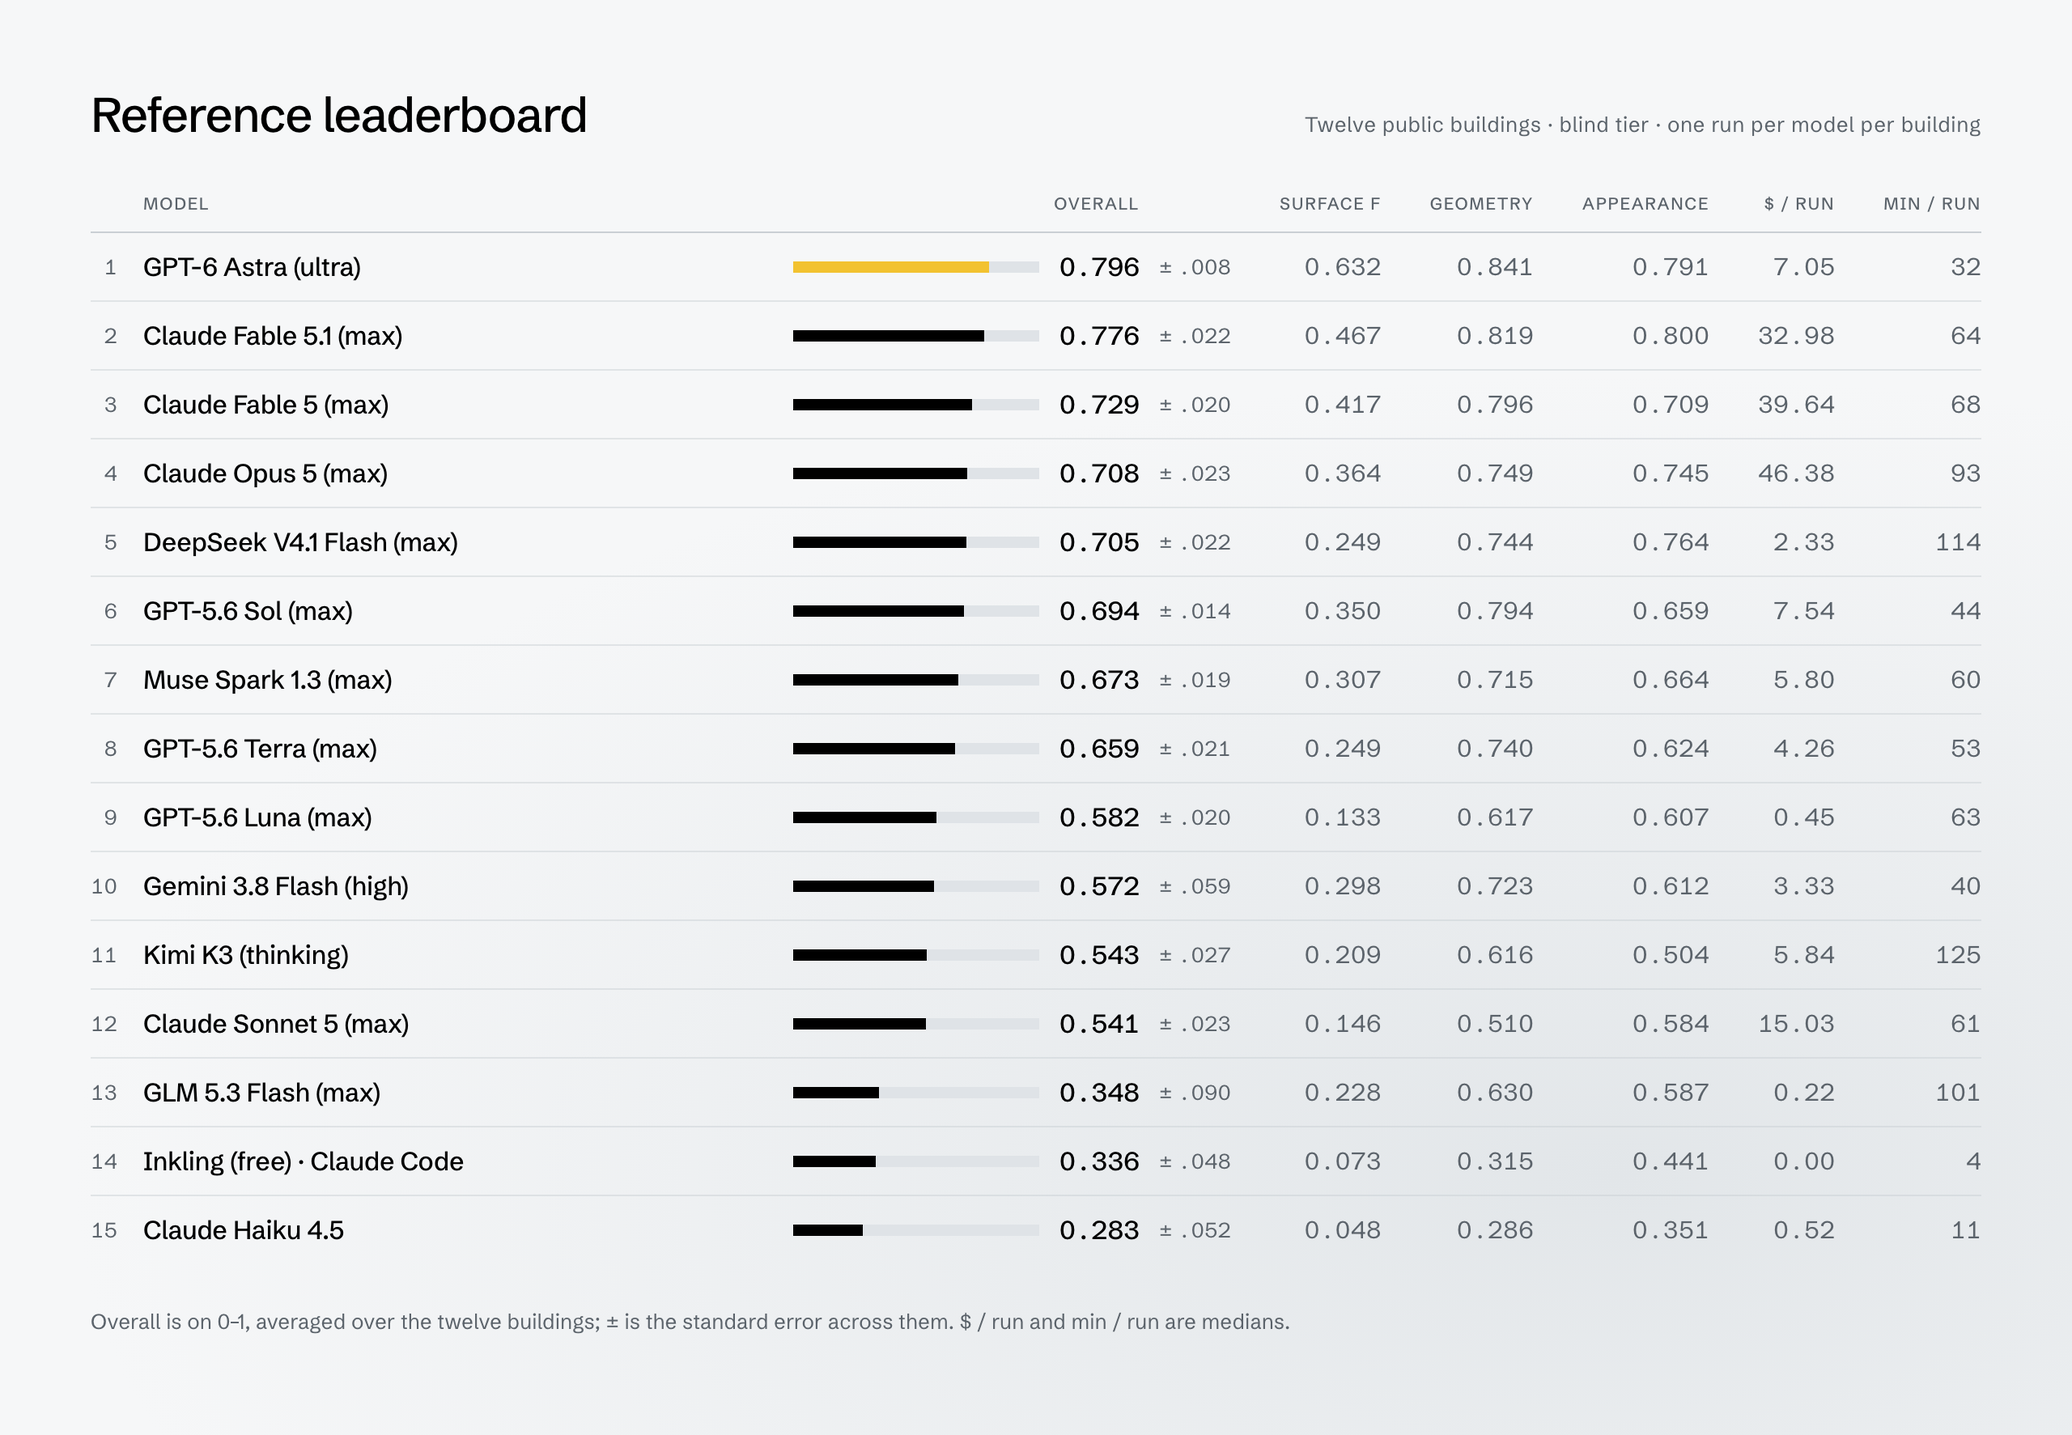
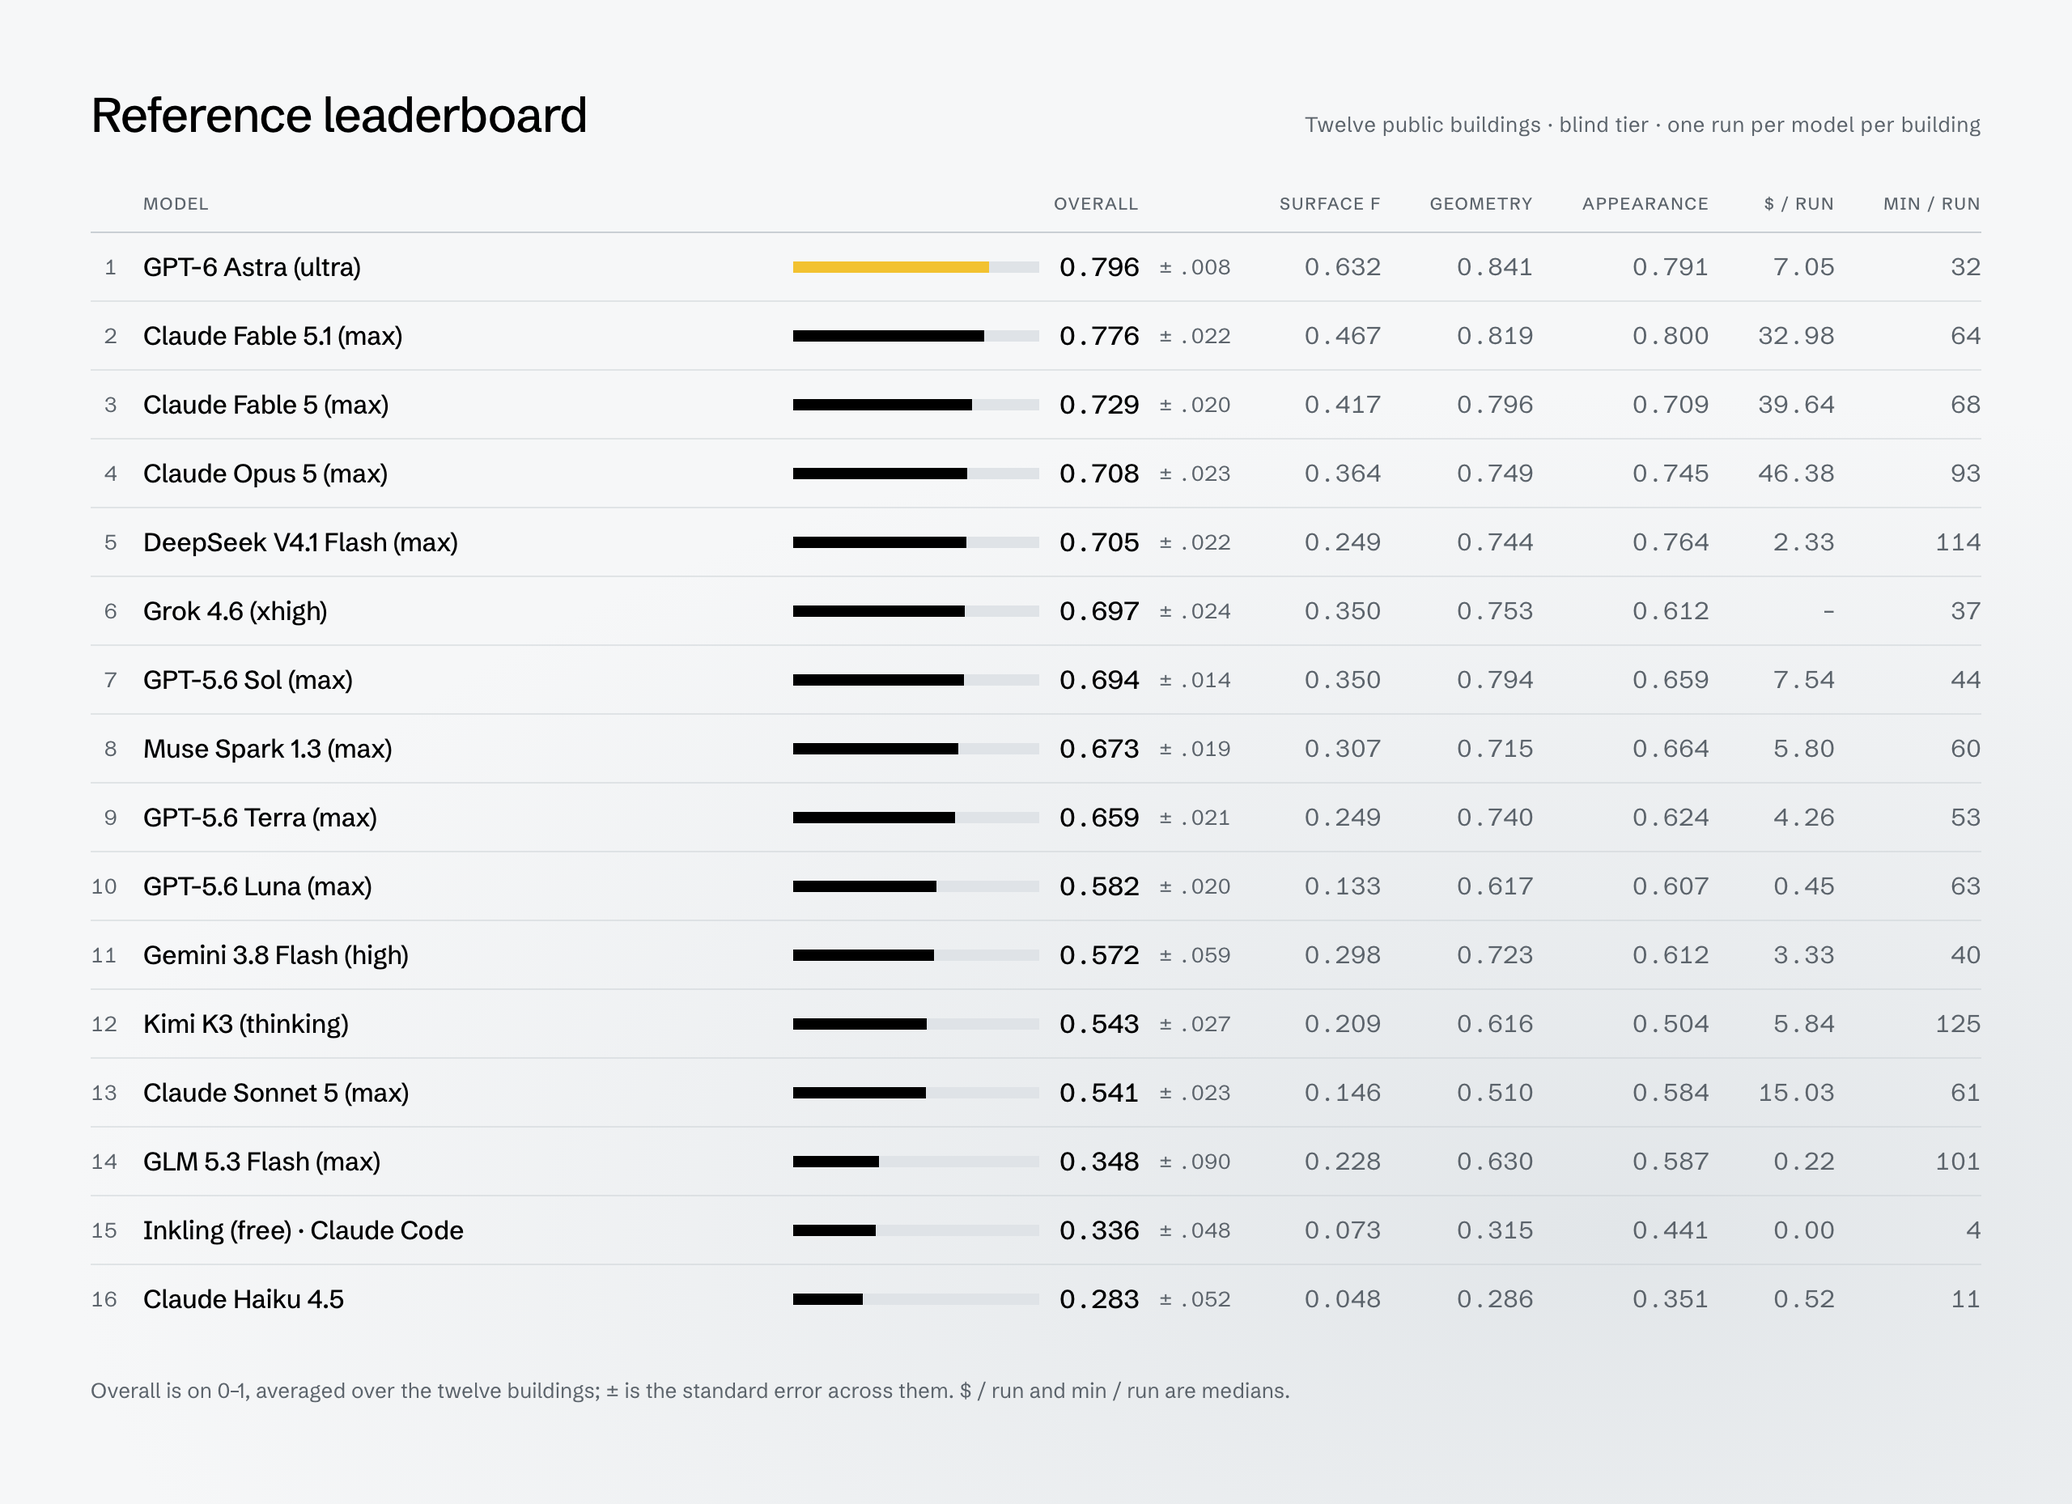
Add Grok 4.6 (xhigh) to the reference board
Twelve runs, one per public case, through Grok Build at
--reasoning-effort xhigh: of the CLI's two effort flags, the one that
reaches the model.

- harness: the grok product and the grok46xhigh configuration. The lane
  gets the login file and nothing else from ~/.grok, and scrub removes
  it, with the Antigravity token, once the lane stops.
- results: 201 reference runs. The CLI reports neither a price nor token
  counts, so these rows carry no cost; seconds is the agent's own turn
  from the CLI's log.
- README and figures: sixteen rows; the price plot names the row it
  cannot place.

diff --git a/harness/agents.py b/harness/agents.py
@@ -96,6 +96,17 @@ PRODUCTS = {
     "muse": ('muse-max-runner --model {model} --reasoning-effort {effort} '
              '--wire-effort max --base-url http://127.0.0.1:8897/v1 '
              '--prompt {prompt}'),
+    # xAI's Grok Build, on a subscription login. Not redistributable: bring
+    # your own `grok` binary and a `grok login`. The CLI has two effort flags
+    # and only one of them reaches the model: --reasoning-effort becomes the
+    # request's `reasoning.effort`, while --effort (low..max) is the CLI's own
+    # setting and leaves the request unchanged -- captured with CLI 0.2.22,
+    # --effort max, xhigh, high, low and no flag at all each sent `"effort":
+    # "high"`, the catalogue default. Both are pinned at their top. Kept off:
+    # --check (appends a self-verification loop to the prompt) and --best-of-n
+    # (runs the task N ways and keeps the best) -- no other row had either.
+    "grok": ('grok -p {prompt} -m {model} --output-format json '
+             '--always-approve --effort max --reasoning-effort {effort}'),
     # Google's Antigravity CLI. Not redistributable: bring your own `agy`
     # binary (--tool agy=/path/to/agy) and your own login.
     "antigravity": ('agy --print {prompt} --output-format json '
@@ -156,6 +167,18 @@ CONFIGS = {c.name: c for c in (
                   "one binary you name, so name the versioned one: given the "
                   "shim alone the agent dies in seconds with \"installed "
                   "binary is missing\".",)),
+    # xAI's own model catalogue (GET /v1/models on the CLI's proxy) lists
+    # grok-4.6's reasoning efforts as low, medium, high (the default) and
+    # xhigh, "Highest effort and reasoning level"; the CLI rejects
+    # `--reasoning-effort max`.
+    Config("grok46xhigh", "Grok 4.6 (xhigh)", "grok", "grok-4.6", "xhigh",
+           notes=("Grok Build on a subscription login, not an API key: "
+                  "`grok login --device-auth` on the host, then the lane gets "
+                  "that login file and nothing else from ~/.grok.",
+                  "xhigh is grok-4.6's highest reasoning effort. --effort max "
+                  "is passed too, but it does not change the request.",
+                  "The CLI reports neither a price nor token counts, so these "
+                  "runs carry no cost.")),
     Config("glm-5.3-flash-max", "GLM 5.3 Flash (max)", "opencode",
            "openrouter/z-ai/glm-5.3-flash", "max"),
     Config("inkling-free", "Inkling (free) · opencode", "opencode",
@@ -257,6 +280,16 @@ def access(config: Config, *, codex_auth: str | None = None,
         # (--tool muse=...); these two are ours.
         got.tools.update({"muse-max-runner": MUSE / "runner.py",
                           "muse-max-meter": MUSE / "meter.py"})
+    elif config.product == "grok":
+        # Checked here; seed_home copies the login file into the lane.
+        login = _grok_home()
+        if not (login / "auth.json").is_file():
+            raise SystemExit(f"Grok Build needs a login at {login}: run "
+                             "`grok login --device-auth` first")
+        binary = Path(env.get("GROK_BIN") or "~/.local/bin/grok").expanduser()
+        if not binary.exists():
+            raise SystemExit(f"no grok binary at {binary}")
+        got.tools["grok"] = binary
     elif config.product == "antigravity":
         pass                                # binary via --tool, login via seed_home
     return got
@@ -307,6 +340,20 @@ def seed_home(config: Config, lane_root: Path, *, kimi_context: int = 0) -> None
             f'max_context_size = {kimi_context or config.context}\n'
             'capabilities = ["image_in", "thinking"]\n')
         config_file.chmod(0o600)
+    elif config.product == "grok":
+        # The login file and nothing else. The rest of ~/.grok is the
+        # operator's own use of the CLI -- logs, other sessions, other
+        # projects' terminal output -- and none of it is needed: measured in
+        # the lane image, a .grok holding only auth.json starts logged in
+        # (`grok models`), and the CLI writes its own agent_id, docs, skills
+        # and config.toml.
+        source, state = _grok_home() / "auth.json", home / ".grok"
+        if not source.is_file():
+            raise SystemExit(f"no Grok Build login at {source}: run "
+                             "`grok login --device-auth` first")
+        state.mkdir(parents=True, exist_ok=True)
+        shutil.copyfile(source, state / "auth.json")
+        (state / "auth.json").chmod(0o600)
     elif config.product == "antigravity":
         # The login, and only the login: the rest of that directory is the
         # CLI's memory of other conversations.
@@ -322,6 +369,10 @@ def seed_home(config: Config, lane_root: Path, *, kimi_context: int = 0) -> None
         if not copied:
             raise SystemExit(f"no Antigravity login under {source}: run `agy` "
                              "and sign in first")
+
+
+def _grok_home() -> Path:
+    return Path(os.environ.get("GROK_HOME") or "~/.grok").expanduser()
 
 
 def _need(name: str) -> str:

diff --git a/tests/test_lane.py b/tests/test_lane.py
@@ -5,7 +5,7 @@ import os
 import subprocess
 import sys
 
-from harness import agents, cases
+from harness import agents, cases, run
 from harness import lane as lanes
 
 
@@ -79,6 +79,55 @@ def test_the_muse_lane_carries_its_meter(monkeypatch):
         assert f"{binary}:/usr/local/bin/{name}:ro" in argv
 
 
+def test_a_grok_lane_gets_the_login_and_nothing_else(tmp_path, monkeypatch):
+    # an operator's ~/.grok after some use: beside the login, logs, sessions
+    # and another project's terminal output
+    login = tmp_path / "operator" / ".grok"
+    for rel, body in {"auth.json": '{"scope": {"key": "not-a-key"}}',
+                      "config.toml": '[cli]\ninstaller = "internal"\n',
+                      "agent_id": "an-id", "logs/unified.jsonl": "{}\n",
+                      "sessions/%2Fhome/prompt_history.jsonl": "{}\n",
+                      "projects/home-other/terminals/1.txt": "$ ls\n"}.items():
+        (login / rel).parent.mkdir(parents=True, exist_ok=True)
+        (login / rel).write_text(body)
+    (tmp_path / "grok").write_text("")
+    monkeypatch.setenv("GROK_HOME", str(login))
+    monkeypatch.setenv("GROK_BIN", str(tmp_path / "grok"))
+
+    # what run_one does before it starts the container
+    config, lane_root = agents.CONFIGS["grok46xhigh"], tmp_path / "lane"
+    lanes.prepare(cases.path("melbourne_25422768"), lane_root)
+    got = agents.access(config)
+    box = lanes.Sandbox(root=lane_root, name="t", credentials=got.credentials,
+                        writable=got.writable, tools=got.tools, env=got.env)
+    box.prepare()
+    agents.seed_home(config, lane_root)
+
+    home = lane_root / "home"
+    assert sorted(str(p.relative_to(home)) for p in home.rglob("*")) == \
+        [".grok", ".grok/auth.json"]
+    assert (home / ".grok/auth.json").read_bytes() == (login / "auth.json").read_bytes()
+    assert (home / ".grok/auth.json").stat().st_mode & 0o077 == 0
+    assert not any(str(login) in arg for arg in box.argv("true"))
+
+    run.scrub(lane_root)
+    assert [p for p in home.rglob("*") if p.is_file()] == []
+
+
+def test_a_stopped_lane_keeps_no_secret(tmp_path):
+    # everything a lane is given to authenticate with while it runs
+    for rel in ("lane.env", "home/.grok/auth.json",
+                "home/.gemini/antigravity-cli/antigravity-oauth-token"):
+        (tmp_path / rel).parent.mkdir(parents=True, exist_ok=True)
+        (tmp_path / rel).write_text("not-a-key")
+    kimi = tmp_path / "home/.kimi/config.toml"
+    kimi.parent.mkdir(parents=True)
+    kimi.write_text('default_model = "k"\napi_key = "not-a-key"\n')
+    run.scrub(tmp_path)
+    assert [p for p in tmp_path.rglob("*")
+            if p.is_file() and "not-a-key" in p.read_text()] == []
+
+
 def test_the_container_is_the_reference_sandbox(tmp_path):
     box = lanes.Sandbox(root=tmp_path, name="t")
     argv = box.argv("true")
@@ -109,6 +158,10 @@ def test_reference_commands():
     assert agents.lane_command(
         agents.CONFIGS["deepseek-v41-flash-claude-code"]).endswith(
         "--model deepseek/deepseek-v4.1-flash:wafer --output-format json --effort max")
+    # only --reasoning-effort reaches the model; --effort max changes nothing
+    assert agents.lane_command(agents.CONFIGS["grok46xhigh"]) == (
+        f"grok -p {prompt} -m grok-4.6 --output-format json --always-approve "
+        "--effort max --reasoning-effort xhigh")
     # the metered runner, and the lane binds it where the runner looks
     assert agents.lane_command(agents.CONFIGS["musespark13max"]) == (
         'muse-max-runner --model "muse-spark-1.3" --reasoning-effort ultra '

diff --git a/docs/figures.py b/docs/figures.py
@@ -353,7 +353,13 @@ def place(labels: list[dict], bounds: tuple[float, float, float, float]) -> None
 
 
 def price(theme: str) -> None:
-    rows = [l for l in board.board(board.load(board.REFERENCE)) if l["ranked"]]
+    ranked = [l for l in board.board(board.load(board.REFERENCE)) if l["ranked"]]
+    # a row whose CLI reports no cost has no place on a price axis; it is named
+    # under the plot instead of being drawn at a price it never had
+    rows = [l for l in ranked if l["cost_usd"] is not None]
+    unpriced = [l["label"] for l in ranked if l["cost_usd"] is None]
+    missing = (f" Not drawn: {', '.join(unpriced)}, whose CLI reports no cost."
+               if unpriced else "")
     points = [dict(text=l["label"], overall=l["overall"], se=l["se"] or 0.0,
                    cost=l["cost_usd"]) for l in rows]
     best = {id(p) for p in frontier(points)}
@@ -431,7 +437,7 @@ def price(theme: str) -> None:
   </svg>
   <p class="note">Cost is the median of the twelve runs, on a logarithmic axis; whiskers are
     &plusmn; one standard error of the mean over the buildings. The line joins the rows nothing
-    else beats on both price and score &mdash; up and to the right is better.</p>
+    else beats on both price and score &mdash; up and to the right is better.{missing}</p>
 </div>"""
     shoot(body, "price", 1280, theme)
 

diff --git a/harness/run.py b/harness/run.py
@@ -68,6 +68,9 @@ def reported(product: str, stdout: str) -> dict[str, Any]:
 def scrub(lane_root: Path) -> None:
     """Secrets the lane needed while running, gone once it has stopped."""
     (lane_root / "lane.env").unlink(missing_ok=True)
+    # the login files seed_home copied into HOME, as the CLI last refreshed them
+    for login in (".grok/auth.json", ".gemini/antigravity-cli/antigravity-oauth-token"):
+        (lane_root / "home" / login).unlink(missing_ok=True)
     kimi = lane_root / "home" / ".kimi" / "config.toml"
     if kimi.is_file():
         kimi.write_text(re.sub(r'(?m)^api_key = ".*"$', 'api_key = ""', kimi.read_text()))

diff --git a/README.md b/README.md
@@ -41,7 +41,7 @@ submissions scored, or an agent evaluated on the full set, see
 
 ## The leaderboard
 
-Fifteen models, one run per model per building, on the twelve public cases at
+Sixteen models, one run per model per building, on the twelve public cases at
 the **blind** tier — the agent is told neither the footprint nor the height.
 
 <p align="center">
@@ -75,16 +75,17 @@ spend.
 | 3 | Claude Fable 5 (max) | 0.729 | 0.020 | 0.417 | 0.796 | 0.709 | 39.64 | 68 |
 | 4 | Claude Opus 5 (max) | 0.708 | 0.023 | 0.364 | 0.749 | 0.745 | 46.38 | 93 |
 | 5 | DeepSeek V4.1 Flash (max) | 0.705 | 0.022 | 0.249 | 0.744 | 0.764 | 2.33 | 114 |
-| 6 | GPT-5.6 Sol (max) | 0.694 | 0.014 | 0.350 | 0.794 | 0.659 | 7.54 | 44 |
-| 7 | Muse Spark 1.3 (max) | 0.673 | 0.019 | 0.307 | 0.715 | 0.664 | 5.80 | 60 |
-| 8 | GPT-5.6 Terra (max) | 0.659 | 0.021 | 0.249 | 0.740 | 0.624 | 4.26 | 53 |
-| 9 | GPT-5.6 Luna (max) | 0.582 | 0.020 | 0.133 | 0.617 | 0.607 | 0.45 | 63 |
-| 10 | Gemini 3.8 Flash (high) | 0.572 | 0.059 | 0.298 | 0.723 | 0.612 | 3.33 | 40 |
-| 11 | Kimi K3 (thinking) | 0.543 | 0.027 | 0.209 | 0.616 | 0.504 | 5.84 | 125 |
-| 12 | Claude Sonnet 5 (max) | 0.541 | 0.023 | 0.146 | 0.510 | 0.584 | 15.03 | 61 |
-| 13 | GLM 5.3 Flash (max) | 0.348 | 0.090 | 0.228 | 0.630 | 0.587 | 0.22 | 101 |
-| 14 | Inkling (free) · Claude Code | 0.336 | 0.048 | 0.073 | 0.315 | 0.441 | 0.00 | 4 |
-| 15 | Claude Haiku 4.5 | 0.283 | 0.052 | 0.048 | 0.286 | 0.351 | 0.52 | 11 |
+| 6 | Grok 4.6 (xhigh) | 0.697 | 0.024 | 0.350 | 0.753 | 0.612 | – | 37 |
+| 7 | GPT-5.6 Sol (max) | 0.694 | 0.014 | 0.350 | 0.794 | 0.659 | 7.54 | 44 |
+| 8 | Muse Spark 1.3 (max) | 0.673 | 0.019 | 0.307 | 0.715 | 0.664 | 5.80 | 60 |
+| 9 | GPT-5.6 Terra (max) | 0.659 | 0.021 | 0.249 | 0.740 | 0.624 | 4.26 | 53 |
+| 10 | GPT-5.6 Luna (max) | 0.582 | 0.020 | 0.133 | 0.617 | 0.607 | 0.45 | 63 |
+| 11 | Gemini 3.8 Flash (high) | 0.572 | 0.059 | 0.298 | 0.723 | 0.612 | 3.33 | 40 |
+| 12 | Kimi K3 (thinking) | 0.543 | 0.027 | 0.209 | 0.616 | 0.504 | 5.84 | 125 |
+| 13 | Claude Sonnet 5 (max) | 0.541 | 0.023 | 0.146 | 0.510 | 0.584 | 15.03 | 61 |
+| 14 | GLM 5.3 Flash (max) | 0.348 | 0.090 | 0.228 | 0.630 | 0.587 | 0.22 | 101 |
+| 15 | Inkling (free) · Claude Code | 0.336 | 0.048 | 0.073 | 0.315 | 0.441 | 0.00 | 4 |
+| 16 | Claude Haiku 4.5 | 0.283 | 0.052 | 0.048 | 0.286 | 0.351 | 0.52 | 11 |
 
 </details>
 
@@ -96,7 +97,11 @@ different set of buildings is a different measurement. `$ / run` and
 where the CLI does not know it: Muse's reports nothing and is metered, and
 Claude Code priced the DeepSeek row against its own first-party card, so that
 row is the pinned endpoint's published rates on the CLI's own token counts,
-which each run carries. For subscription logins it is the API-equivalent price. Every run is in
+which each run carries. For subscription logins it is the API-equivalent price,
+except Grok Build's, which reports neither a price nor token counts: that row
+has no cost and is not on the price plot. Its `min / run` is the agent's own
+turn, from the CLI's log — the CLI keeps the lane open for some minutes after
+the turn ends, uploading the session. Every run is in
 `results/reference_runs.jsonl`; `python -m harness.board` leaves the `--ranked`
 filter off and shows the partial rows too.
 
@@ -188,6 +193,9 @@ python -m harness.run --agent glm-5.3-flash-max --all           # opencode: OPEN
 # lane's PATH. Name the versioned `muse-bin-*`, not the shim that dispatches to it
 python -m harness.run --agent musespark13max --all --tool muse=/path/to/muse-bin-*
 python -m harness.run --agent gemini38flash --all --tool agy=/path/to/agy
+# Grok Build: the binary at ~/.local/bin/grok (or GROK_BIN), signed in with
+# `grok login --device-auth`; the lane gets that login file and nothing else
+python -m harness.run --agent grok46xhigh --all
 
 # anything else -- {prompt} is replaced by the opening prompt, quoted, and
 # --tool and --env are how your CLI and its key reach the lane
@@ -212,7 +220,9 @@ What every reference run had, and what `harness/` reproduces:
 - each product's own CLI, headless, at the highest reasoning effort it offers,
   pinned on the command line: Claude Code 2.1.257–2.1.261, Codex CLI 0.153.0,
   opencode 1.15.12, kimi-cli 1.49.0, Antigravity (`agy`) for the Gemini rows,
-  Meta's `muse` CLI for Muse Spark, through the meter in `harness/muse/`;
+  Meta's `muse` CLI for Muse Spark, through the meter in `harness/muse/`, and
+  Grok Build 0.2.22 (`grok`) for Grok 4.6, where the level that reaches the
+  model is set by `--reasoning-effort`, not `--effort`;
 - a Docker container holding only the lane — the agent's working directory and
   its HOME — on the default bridge network, with open internet access, 8 GB of
   memory, 4 CPUs, no capabilities and at most 512 processes.
